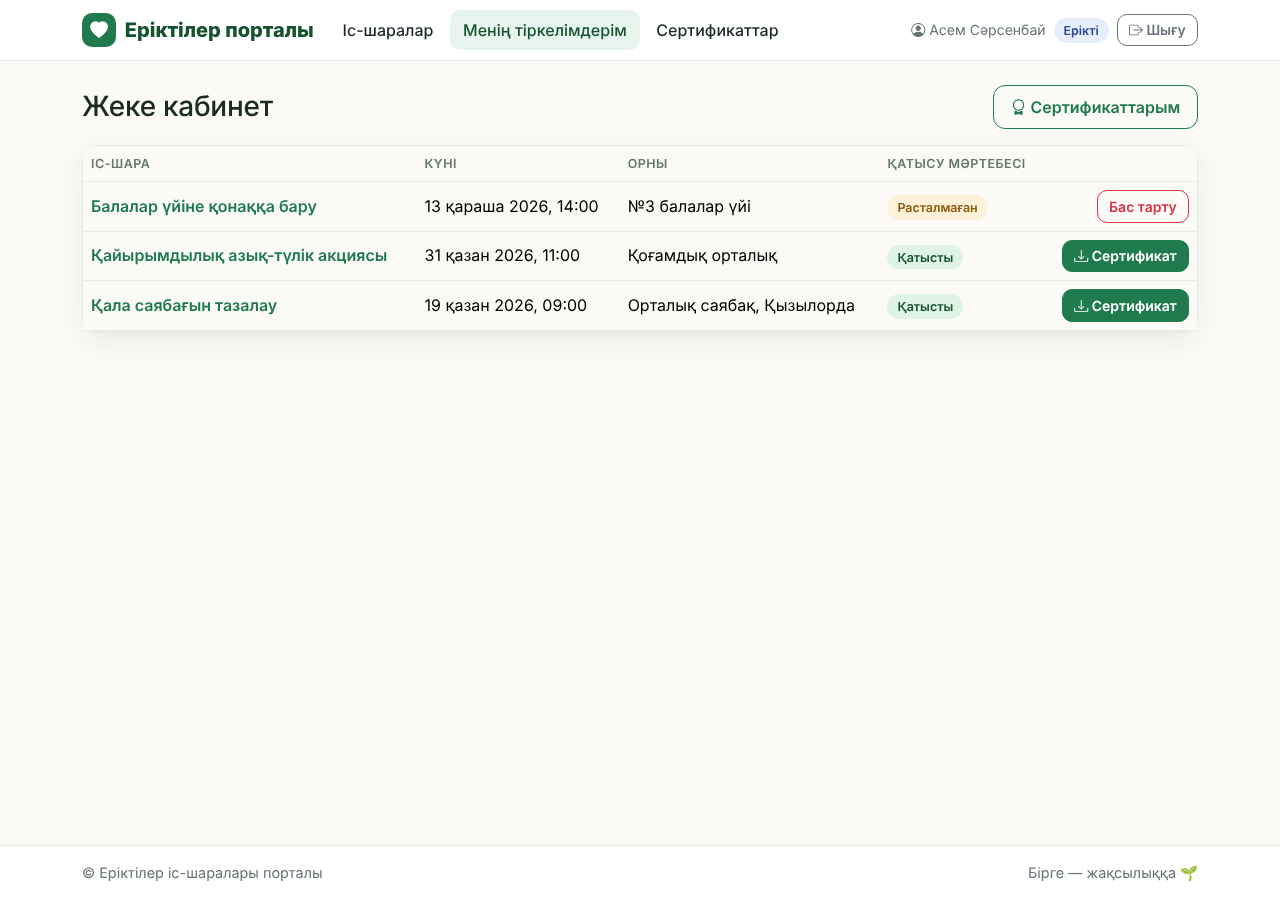
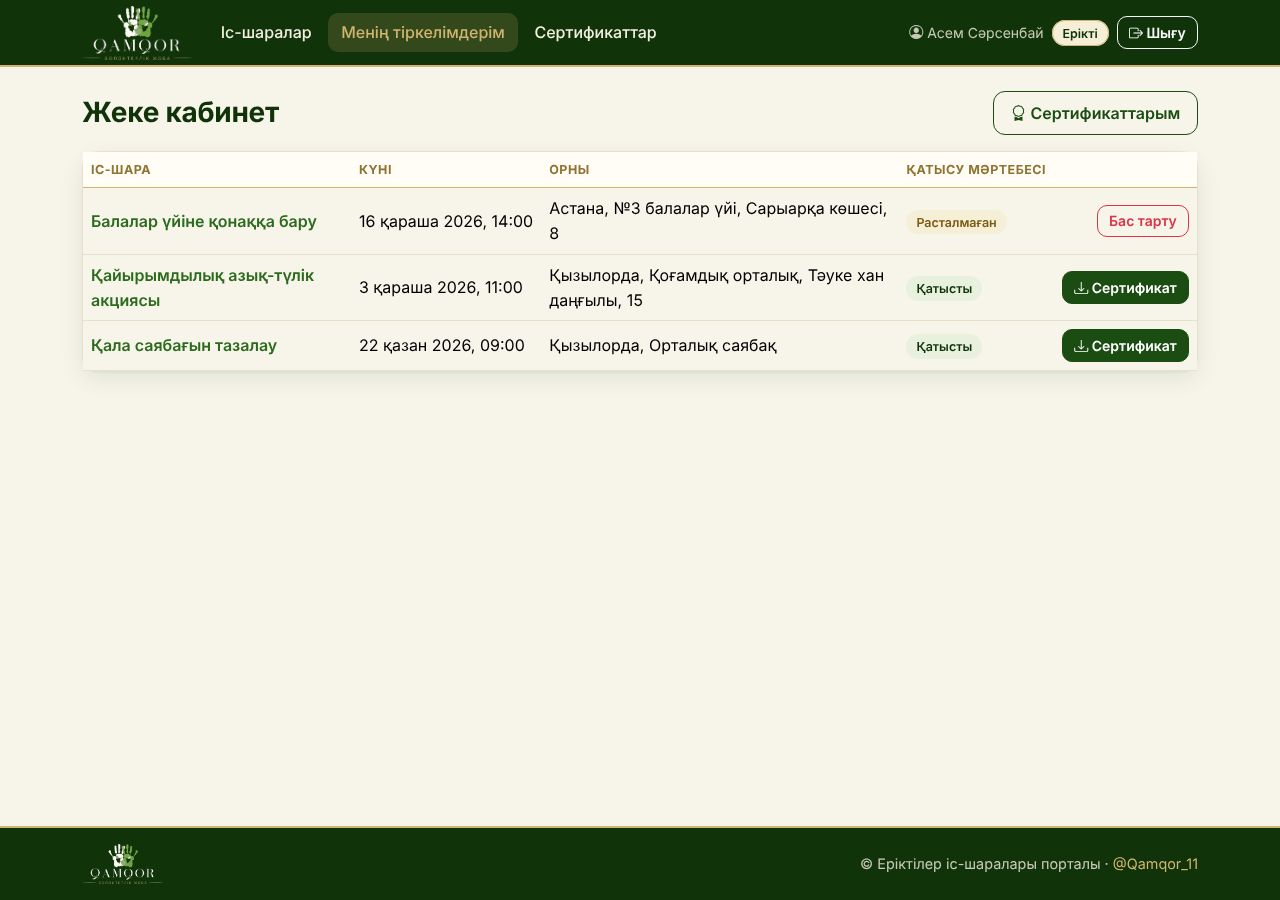
docs: update for city field, QAMQOR design, 105 tests, new screenshots

Changed region(s): [[0.0, 0.0, 1.0, 0.4356], [0.0, 0.9022, 1.0, 1.0], [0.5, 0.1556, 0.5312, 0.1867]]

diff --git a/docs/test_report.md b/docs/test_report.md
@@ -1,6 +1,6 @@
 # Тестілеу жоспары мен есебі
 
-Барлық нәтиже төменде 2026-11-08 күні нақты іске қосылған командалардан алынған (Linux, Python 3.13.18, Flask 3.1.3, pytest 9.1.1).
+Барлық нәтиже төменде 2026-11-11 күні нақты іске қосылған командалардан алынған (Linux, Python 3.13.18, Flask 3.1.3, pytest 9.1.1).
 
 ## Жоспар
 - Құрал: pytest + pytest-cov. Әр тест жеке уақытша SQLite қорында (`tmp_path`) жұмыс істейді; тек ойдан шығарылған деректер.
@@ -10,17 +10,17 @@
 ## Нәтиже
 ```
 python -m pytest
-95 passed
+105 passed
 ```
 | Файл | Тест саны |
 |---|---|
 | test_auth.py | 21 |
-| test_events.py | 20 |
+| test_events.py | 26 |
 | test_registrations.py | 16 |
-| test_admin_and_misc.py | 15 |
-| test_certificates.py | 13 |
+| test_admin_and_misc.py | 17 |
+| test_certificates.py | 15 |
 | test_statistics.py | 10 |
-| **Барлығы** | **95** |
+| **Барлығы** | **105** |
 
 ## ТЗ бойынша міндетті 12 тест
 | № | Талап | Тест |
@@ -41,21 +41,21 @@ python -m pytest
 Қосымша: рөл шектеулері (`test_role_restrictions`, `test_admin_actions_forbidden_for_others`, басқа ұйымдастырушыға 403), транзакция rollback, 5 ағынды бәсеке, CSRF, open-redirect, SQL-инъекция әрекеті, қайта іске қосудан кейін деректердің сақталуы, CLI командалары.
 
 ## Қамту (pytest-cov)
-Бизнес-логика (`app/services`): **96 %** (519 жол, 19 өткізілген).
+Бизнес-логика (`app/services`): **96 %** (594 жол, 22 өткізілген).
 
 | Модуль | Қамту |
 |---|---|
 | services/auth_service.py | 92 % |
-| services/certificate_service.py | 98 % |
+| services/certificate_service.py | 97 % |
 | services/event_service.py | 97 % |
 | services/registration_service.py | 93 % |
 | services/statistics_service.py | 100 % |
-| Бүкіл `app` | 97 % (1025 жол, 31 өткізілген) |
+| Бүкіл `app` | 97 % (1114 жол, 34 өткізілген) |
 
 Қайталау: `python -m pytest --cov=app/services --cov-report=term-missing`.
 
 ## Тесттер ашқан қате
-`test_search_and_filters` бастапқыда құлады: SQLite `LOWER()` кириллицаны төмендетпейді, сондықтан «саябақ» сұранысы «Саябақ тазалау» атауын таппады. Түзетілді (`PYLOWER` функциясы, `app/database.py`), қайта іске қосқанда 95/95 өтті. Қолмен тексеруде графиктердің дизайн кемшіліктері (легенда бағанды жауып тұрды, бөлшек сандар осьте) де түзетілді.
+`test_search_and_filters` бастапқыда құлады: SQLite `LOWER()` кириллицаны төмендетпейді, сондықтан «саябақ» сұранысы «Саябақ тазалау» атауын таппады. Түзетілді (`PYLOWER` функциясы, `app/database.py`), қайта іске қосқанда 95/95 өтті. Кейінгі итерацияда қосылған тесттер: қала өрісі мен сүзгісі, ескі қорды көшіру, логотиптің барлық беттерде болуы және файлдың сервер арқылы берілуі, сынған логотиптің журналға жазылуы, сертификатта қала. Қолмен тексеруде (скриншот) каталог сүзгісінде мәтіннің кесіліп қалуы, графиктердің дизайн кемшіліктері (легенда бағанды жауып тұрды, бөлшек сандар осьте) де түзетілді.
 
 ## Өлшенбегендер / шектеулер (шынайы тізім)
 - Тесттер тек Linux-та орындалды; Windows-та іске қосу `README.md` бойынша жазылған, бірақ осы жерде тексерілмеген.

diff --git a/docs/user_manual.md b/docs/user_manual.md
@@ -4,14 +4,14 @@
 
 ## Ерікті
 1. **Тіркелу**: «Тіркелу» → аты-жөні, email, пароль (кемінде 8 таңба, әріп + цифр), рөл «Ерікті» → «Тіркелу». Содан кейін «Кіру».
-2. **Іс-шара іздеу**: «Іс-шаралар» бетінде атауы/орны бойынша іздеу, күні және мәртебесі (алдағы/өткен/тоқтатылған) бойынша сүзгі. Алдағы және өткен іс-шаралар бөлек көрсетіледі.
+2. **Іс-шара іздеу**: «Іс-шаралар» бетінде атауы/мекенжайы/қаласы бойынша іздеу, **қала**, күні және мәртебесі (алдағы/өткен/тоқтатылған) бойынша сүзгі. Іс-шара бетінде «Картада көру» сілтемесі мекенжайды Google Maps-та ашады (сыртқы сайт, интернет қажет). Алдағы және өткен іс-шаралар бөлек көрсетіледі.
 3. **Тіркелу**: іс-шара бетінде «Іс-шараға тіркелу». Бос орын болмаса, іс-шара өтіп кетсе немесе тоқтатылса, түсінікті хабарлама шығады. Бір іс-шараға екі рет тіркелуге болмайды.
 4. **Бас тарту**: «Менің тіркелімдерім» немесе іс-шара бетінде «Бас тарту» (орын босайды). Қатысу мәртебесі белгіленген тіркелімнен бас тартуға болмайды.
 5. **Мәртебе**: «Расталмаған» → ұйымдастырушы белгілегеннен кейін «Қатысты» немесе «Қатыспады».
 6. **Сертификат**: «Сертификаттар» бетінде тек «Қатысты» іс-шаралар көрінеді; «PDF жүктеу» басыңыз. Сертификат нөмірін `/verify/<нөмір>` арқылы кез келген адам тексере алады.
 
 ## Ұйымдастырушы
-1. **Іс-шара құру**: «Ұйымдастырушы панелі» → «Жаңа іс-шара»: атауы, сипаттама, орны, күні-уақыты (болашақта), қатысушылардың ең көп саны.
+1. **Іс-шара құру**: «Ұйымдастырушы панелі» → «Жаңа іс-шара»: атауы, сипаттама, **қала** (тізімнен таңдалады), **мекенжайы** (көше, ғимарат), күні-уақыты (болашақта), қатысушылардың ең көп саны.
 2. **Өңдеу/тоқтату/жою**: панельдегі кестеде қарындаш (өңдеу), үзіліс (тоқтату; тіркелу жабылады, қайта жариялауға болады), қоқыс (жою, растаумен). Қазіргі тіркелген санынан аз сыйымдылық қоюға болмайды.
 3. **Қатысушылар**: адамдар белгішесі → тіркелген эріктілер тізімі; «Қатысты» / «Қатыспады» / «Расталмаған» батырмалары. «Қатысты»-дан шығарсаңыз, берілген сертификат жойылады.
 4. **Статистика**: сандар мен 3 график тек өз іс-шараларыңыз бойынша.

diff --git a/docs/architecture.md b/docs/architecture.md
@@ -20,7 +20,7 @@
 | `config.py` | Баптаулар; `SECRET_KEY` env-тен немесе `instance/secret_key` (Git-ке түспейді); `DEBUG` әдепкіде өшірулі |
 | `app/__init__.py` | Қосымша фабрикасы, Flask-Login, CSRF, фильтрлер, қате беттері, CLI (`init-db`, `seed-demo`, `create-admin`) |
 | `app/database.py` | Қосылым, схема, `transaction()` (BEGIN IMMEDIATE), кириллицаға арналған `PYLOWER` |
-| `app/models.py` | `User` (Flask-Login), рөл/мәртебе константалары, қазақша атаулар |
+| `app/models.py` | `User` (Flask-Login), рөл/мәртебе константалары, қазақша атаулар, `CITIES` (қалалар тізімі) |
 | `app/security.py` | CSRF токені мен тексеруі, қауіпсіз `next` |
 | `app/auth.py` | Тіркелу/кіру/шығу, `roles_required` |
 | `app/events.py` | Каталог, толық бет, ұйымдастырушы панелі, іс-шара CRUD, қатысушылар беті |
@@ -33,10 +33,13 @@
 
 ## Сервистер
 - **auth_service**: валидация (email, пароль), тіркеу, аутентификация (қате хабарламасы email/парольді ажыратпайды), әкімші операциялары.
-- **event_service**: деректерді тексеру, құру/өңдеу/тоқтату/жою, `can_manage` (ие немесе әкімші), іздеу мен сүзгілер.
+- **event_service**: деректерді тексеру (қала тізімнен), құру/өңдеу/тоқтату/жою, `can_manage` (ие немесе әкімші), іздеу мен сүзгілер (мәтін, қала, күні, мәртебе), `full_address`.
 - **registration_service**: тіркелу (орын тексеру мен INSERT бір `BEGIN IMMEDIATE` транзакциясында), бас тарту, қатысу мәртебесі.
-- **certificate_service**: беру шарттары, бірегей нөмір `VP-<жыл>-<8 hex>`, ReportLab PDF (қазақ әріптері үшін DejaVu Sans қарпі `app/static/fonts/`).
+- **certificate_service**: беру шарттары, бірегей нөмір `VP-<жыл>-<8 hex>`, ReportLab PDF (QAMQOR дизайны, DejaVu Serif қарпі `app/static/fonts/`, логотип фонға кіріктіріліп беріледі; логотип оқылмаса журналға ескерту жазылады, сертификат логотипсіз жасалады).
 - **statistics_service**: SQL-есептеулер және Matplotlib графиктері (Agg backend, жадта PNG).
+
+## Статикалық файлдар
+`static_url()` (Jinja) файл атына өзгерген уақытты (`?v=`) қосады, сондықтан логотип/CSS жаңарғанда браузер ескі кэшті көрсетпейді.
 
 ## Қауіпсіздік шаралары
 - Рөлдер серверде `roles_required` және сервистердегі иелік тексеруімен қорғалады (интерфейсте батырманы жасыру қорғаныс емес).

diff --git a/docs/technical_specification.md b/docs/technical_specification.md
@@ -25,8 +25,12 @@ Python 3.11+ (әзірлеу Python 3.13-те тексерілді), Flask, Flas
 | FR-04 | Іс-шараға тіркелу | Ерікті тіркеле алады; қайталанбайды; бас тартқанда орын босайды; қателер түсінікті | `test_registrations.py::test_register_success`, `test_duplicate_registration_forbidden`, `test_cancel_registration_frees_spot`, `test_http_register_and_cancel_flow` |
 | FR-05 | Қатысушылар санының шегін бақылау | Орын толғанда тіркелу бас тартылады; бір мезгілдегі сұраулар шектен асырмайды | `test_register_rejected_when_full`, `test_concurrent_registration_never_exceeds_capacity`, `test_failed_transaction_rolls_back` |
 | FR-06 | Ұйымдастырушының іс-шара басқаруы | Құру/өңдеу/тоқтату/жою тек иесіне (және әкімшіге); қатысуды белгілеу және деректер қорында сақтау | `test_events.py::test_create_event`, `test_owner_can_update_but_other_organizer_cannot`, `test_http_create_edit_by_owner_and_403_for_other`, `test_set_attendance_statuses_persist` |
-| FR-07 | PDF-сертификат | Тек қатысуы расталғанға, тек өз сертификатын; бірегей нөмір; PDF оқылады | `test_certificates.py` (13 тест) |
+| FR-07 | PDF-сертификат | Тек қатысуы расталғанға, тек өз сертификатын; бірегей нөмір; PDF оқылады; QAMQOR дизайны, логотип, қала | `test_certificates.py` (15 тест) |
 | FR-08 | Статистика графиктері | Сандар деректер қорынан; 3 Matplotlib графигі; рөл бойынша қолжетімділік | `test_statistics.py` (10 тест) |
+| FR-09 | Қала және нақты мекенжай | Іс-шара қаласы тізімнен таңдалады (қате қала қабылданбайды), мекенжай бөлек; каталогта қала бойынша сүзгі және іздеу; ескі қорлар деректерін жоғалтпай көшіріледі | `test_events.py::test_city_stored_and_shown_in_full_address`, `test_search_by_city_and_text`, `test_old_database_without_city_is_migrated`, `test_http_city_filter_and_form` |
+
+## 5.1. Дизайн және брендинг
+Интерфейс пен сертификат QAMQOR волонтерлік жобасының стилінде: қою жасыл (#103309), алтын (#d0b470), ақшыл бежевый фон. Логотип (`app/static/images/logo.png`) барлық беттерде көрінеді: шапка, hero, кіру/тіркелу, футер, қате беттері, сертификат. Регрессия тесті: `test_logo_present_on_every_page_and_served`.
 
 ## 6. Функционалдық емес талаптар
 | Код | Талап | Тексеру әдісі |

diff --git a/docs/interface_mockups.md b/docs/interface_mockups.md
@@ -1,11 +1,11 @@
 # Интерфейс макеті
 
-Төмендегі суреттер дайын қосымшаның нақты скриншоттары (Chromium, демо-деректермен). Дизайн жүйесі: ашық фон, негізгі жасыл түс (#1f7a4d), дөңгеленген карточкалар (16 px), жұмсақ көлеңкелер, жүйелік қаріп стегі; Bootstrap 5 негізінде, `app/static/css/style.css` ішінде бірыңғай токендермен.
+Төмендегі суреттер дайын қосымшаның нақты скриншоттары (Chromium, демо-деректермен). Дизайн жүйесі: QAMQOR стилі: қою жасыл (#103309) шапка, hero және футер, алтын (#d0b470) жиектер мен акценттер, ақшыл бежевый фон, дөңгеленген карточкалар (16 px), жұмсақ көлеңкелер; Bootstrap 5 негізінде, `app/static/css/style.css` ішіндегі `:root` токендерімен. Логотип барлық беттерде бар.
 
 | № | Бет | URL | Скриншот |
 |---|---|---|---|
 | 1 | Басты бет | `/` | ![](screenshots/01_home.png) |
-| 2 | Іс-шаралар каталогы (іздеу, сүзгі) | `/events` | ![](screenshots/02_catalog.png) |
+| 2 | Іс-шаралар каталогы (іздеу, қала/күн/мәртебе сүзгісі) | `/events` | ![](screenshots/02_catalog.png) |
 | 3 | Іс-шара беті (қонақ) | `/events/<id>` | ![](screenshots/03_detail_anon.png) |
 | 3б | Іс-шара беті (ерікті, тіркелу) | `/events/<id>` | ![](screenshots/04_detail_vol.png) |
 | 4 | Тіркелу | `/register` | ![](screenshots/14_register.png) |
@@ -18,6 +18,7 @@
 | 9б | PDF-сертификат үлгісі | жүктеу | ![](screenshots/16_certificate_pdf.png) |
 | 10 | Статистика | `/statistics` | ![](screenshots/10_stats.png) |
 | 11 | Әкімші панелі | `/admin/` | ![](screenshots/11_admin.png) |
-| — | Мобильді көрініс (390 px) | `/`, `/events` | ![](screenshots/12_mobile_home.png) ![](screenshots/13_mobile_catalog.png) |
+| — | Мобильді көрініс (390 px) | `/`, `/events`, `/login` | ![](screenshots/12_mobile_home.png) ![](screenshots/13_mobile_catalog.png) ![](screenshots/18_mobile_login.png) |
+| — | 404 беті | кез келген жоқ URL | ![](screenshots/17_404.png) |
 
 Күйлер: бос деректер (мысалы, «Әзірге ешкім тіркелмеген»), қате/ескерту хабарламалары (flash), батырмадағы жүктелу индикаторы (`data-loading`), графиктердің жүктелу/қате күйі, 403/404/500 беттері.

diff --git a/docs/explanatory_note.md b/docs/explanatory_note.md
@@ -4,8 +4,9 @@
 1. **Талдау және жобалау**: ТЗ, рөлдер, ER-диаграмма, қабатты архитектура (`technical_specification.md`, `architecture.md`, `database_design.md`).
 2. **Backend**: конфиг, SQLite схемасы, сервистер (auth, event, registration, certificate, statistics), blueprints, CSRF, рөл тексеруі.
 3. **Frontend**: Jinja2 шаблондары, бірыңғай CSS дизайн жүйесі, Bootstrap 5, қазақша интерфейс.
-4. **Тестілеу**: 95 pytest тест, бизнес-логика қамтуы 96 % (`test_report.md`).
-5. **Құжаттама** және тірі сервердегі қолмен тексеру (скриншоттар, PDF).
+4. **Тестілеу**: 105 pytest тест, бизнес-логика қамтуы 96 % (`test_report.md`).
+5. **Брендинг және жетілдіру**: QAMQOR дизайны (сайт, сертификат), логотип барлық беттерде, қала мен мекенжай өрістері, ескі қорларды көшіру.
+6. **Құжаттама** және тірі сервердегі қолмен тексеру (скриншоттар, PDF).
 
 ## Негізгі шешімдер
 - **Бизнес-логика бөлек**: маршруттар тек HTTP-мен жұмыс істейді; ережелер `services/`-те, сондықтан HTTP-сіз тестілеуге болады.
@@ -20,7 +21,7 @@
 - Графиктердің бірыңғай көрінісі (легенда, бүтін осьтер): скриншот арқылы тексеріліп түзетілді.
 
 ## Нәтиже
-ТЗ-дағы 11 бет, 3 рөл, 4 кесте, PDF-сертификат, 3 Matplotlib графигі, 95 тест, толық құжаттама орындалды. Бастапқы архивтегі `run.py` тек «Hello» беті болғандықтан, жоба бұл негізде нөлден жасалды; `run.py` атауы мен `python run.py` іске қосу тәсілі сақталды.
+ТЗ-дағы 11 бет, 3 рөл, 4 кесте, PDF-сертификат, 3 Matplotlib графигі, 105 тест, толық құжаттама орындалды; қосымша қала өрісі және QAMQOR дизайны жасалды. Бастапқы архивтегі `run.py` тек «Hello» беті болғандықтан, жоба бұл негізде нөлден жасалды; `run.py` атауы мен `python run.py` іске қосу тәсілі сақталды.
 
 ## Орындалмағаны / шектеулер
 - Email хабарландырулары, құпиясөзді қалпына келтіру, іс-шара суреттері жоқ (ТЗ-да талап етілмеген).

diff --git a/README.md b/README.md
@@ -34,7 +34,7 @@ http://127.0.0.1:5000
 python -m pytest
 python -m pytest --cov=app/services --cov-report=term-missing
 ```
-Соңғы нәтиже: 95 тест өтті, бизнес-логика қамтуы 96 % (`docs/test_report.md`).
+Соңғы нәтиже: 105 тест өтті, бизнес-логика қамтуы 96 % (`docs/test_report.md`).
 
 ## Тест аккаунттар (тек `seed-demo` жүктелгенде)
 | Рөл | Email | Пароль |
@@ -44,6 +44,11 @@ python -m pytest --cov=app/services --cov-report=term-missing
 | Ерікті | volunteer1@volunteer.kz | Demo12345 |
 
 Өндірісте бұл аккаунттарды пайдаланбаңыз.
+
+## Брендинг және қалалар
+- Логотип: `app/static/images/logo.png` (шапка, hero, кіру беттері, футер, сертификат). Ауыстыру үшін осы файлды өз суретіңізбен алмастырыңыз (мөлдір фонды PNG), серверді қайта іске қосыңыз.
+- Түстер: `app/static/css/style.css` ішіндегі `:root`; сертификат түстері мен мәтіні: `app/services/certificate_service.py` (бастапқы тұрақтылар).
+- Қалалар тізімі: `app/models.py` ішіндегі `CITIES`. Іс-шара қаласы мен мекенжайы бөлек өрістер. Ескі қор (қала бағанасыз) бірінші іске қосуда автоматты көшіріледі.
 
 ## Құжаттама
 `docs/` бумасы: техникалық тапсырма, аналогтар талдауы, архитектура, деректер қоры, интерфейс, тест есебі, пайдаланушы және орнату нұсқаулықтары, түсіндірме жазба.

diff --git a/docs/database_design.md b/docs/database_design.md
@@ -21,7 +21,9 @@
 | Өріс | Түрі | Шектеу |
 |---|---|---|
 | id | INTEGER | PK |
-| title, location | TEXT | NOT NULL |
+| title | TEXT | NOT NULL |
+| city | TEXT | NOT NULL, әдепкі ''; мәні `app/models.py::CITIES` тізімінен (сервис тексереді) |
+| location | TEXT | NOT NULL; қаладан кейінгі мекенжай (көше, ғимарат) |
 | description | TEXT | әдепкі '' |
 | event_date | TEXT | `YYYY-MM-DD HH:MM` (мәтін ретінде салыстыруға болады) |
 | capacity | INTEGER | CHECK capacity > 0 |
@@ -54,7 +56,10 @@
 - registrations 1—0..1 certificates.
 
 ## Индекстер
-`events(event_date)`, `events(organizer_id)`, `registrations(event_id)`.
+`events(event_date)`, `events(organizer_id)`, `events(city)`, `registrations(event_id)`.
+
+## Миграция
+`city` бағаны кейін қосылды. `init_db()` ескі қорда бағанның жоқтығын `PRAGMA table_info` арқылы анықтап, `ALTER TABLE events ADD COLUMN city TEXT NOT NULL DEFAULT ''` орындайды; бар деректер сақталады (тест: `test_old_database_without_city_is_migrated`). Қаласы жоқ ескі іс-шаралар тек мекенжаймен көрсетіледі, өңдегенде қаланы таңдау талап етіледі.
 
 ## Тұтастық пен транзакциялар
 - Қайталанатын тіркелуден UNIQUE шектеуі қорғайды (сервис алдын ала тексереді, DB соңғы қорғаныс).

diff --git a/docs/installation_guide.md b/docs/installation_guide.md
@@ -39,7 +39,19 @@ python -m pytest
 python -m pytest --cov=app/services --cov-report=term-missing
 ```
 
+## Android (Termux)
+```bash
+pkg update
+pkg install python python-numpy matplotlib python-pillow
+cp -r ~/storage/downloads/VolunteerPortal ~/ && cd ~/VolunteerPortal
+pip install -r requirements.txt
+python run.py
+```
+Браузерде http://127.0.0.1:5000. (Бұл жерде Termux-та тексерілмеген; ақау болса, қате мәтінін жазып алыңыз.)
+
 ## Ақаулықтарды жою
+- Сертификат дизайны/логотипі жаңармаса: `generated/certificates/*.pdf` файлдарын жойыңыз (бар PDF қайта пайдаланылады) және серверді қайта іске қосыңыз.
+- Логотип көрінбесе: `app/static/images/logo.png` бар екенін тексеріңіз, бетті кэшсіз жаңартыңыз (Ctrl+F5).
 - `ModuleNotFoundError: flask_login`: виртуалды орта белсенді емес немесе `pip install -r requirements.txt` орындалмады.
 - Порт бос емес: `run.py` ішіндегі `port=5000` мәнін өзгертіңіз.
 - Жоба папкасының атында бос орын болса (мысалы, «VolunteerPortal beta»), командаларды тырнақшамен жазыңыз.
